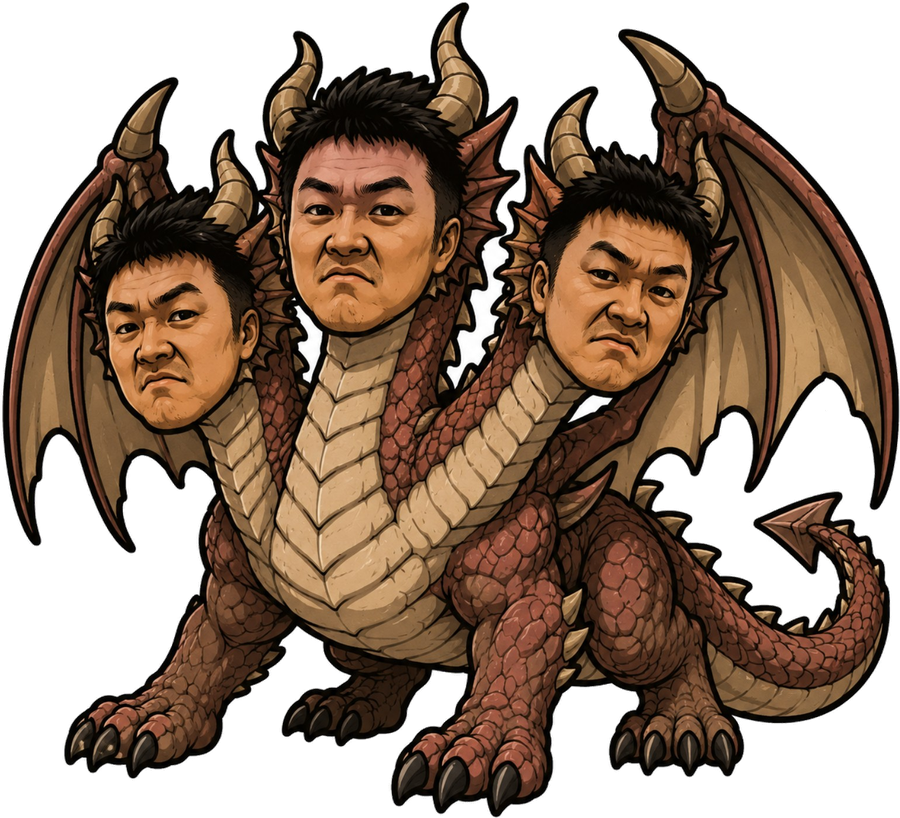
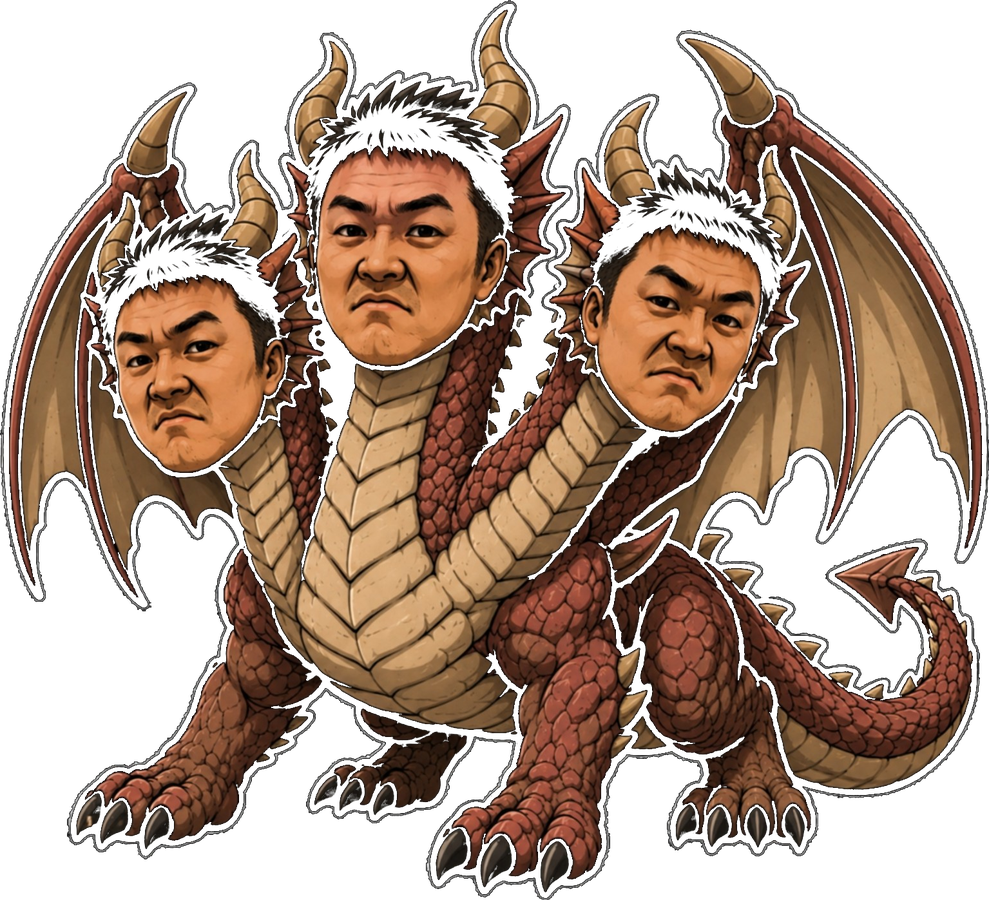
Add files via upload

diff --git a/battle.js b/battle.js
@@ -78,7 +78,7 @@ function updateLasers(dt){
  }
 }
 function updateUI(){
- const alive=heroes.filter(x=>!x.dead),h=heroes[heroIndex],dBtn=document.getElementById('d');if(trainingMode&&trainingChallenge==='mole'){const labels={a:'左',b:'上',c:'下',d:'右'};for(const id of ['a','b','c','d']){const el=document.getElementById(id);if(el)el.innerHTML=`<b>${id.toUpperCase()}</b>${labels[id]}`}}if(dBtn&&!(trainingMode&&trainingChallenge==='mole')){const soloReady=alive.length===1;dBtn.innerHTML=soloReady?'<b>D</b>専用技':'<b>D</b>交代';dBtn.classList.toggle('soloReady',soloReady);}ui.stageNo.textContent=trainingMode?(trainingChallenge==='mole'?'MOLE TRAINING':'TRAINING'):foxMode?'FOX BATTLE':bushinMode?'SPECIAL BOSS':'BOSS '+(bossIndex+1)+' / 5';ui.bossName.textContent=trainingMode?(trainingChallenge==='mole'?`モグラ叩き　${moleScore}点　残り ${Math.max(0,MOLE_DURATION-trainingElapsed).toFixed(1)}秒`:trainingChallenge==='limit'?`60秒撃破　${trainingKills}体　残り ${Math.max(0,60-trainingElapsed).toFixed(1)}秒`:`100体撃破　${trainingKills} / 100　${formatTrainingTime(trainingElapsed)}`):foxMode?'白狐忍・三影':bushinMode?'武神':bossDefs[bossIndex].name;ui.bossFill.style.width=trainingMode?(trainingChallenge==='mole'?Math.min(100,trainingElapsed/MOLE_DURATION*100):trainingChallenge==='limit'?Math.min(100,trainingElapsed/60*100):trainingKills)+'%':(boss.hp/boss.maxHp*100)+'%';ui.heroName.textContent=heroInfo[h.type].name;ui.ability.textContent=heroInfo[h.type].ability;ui.hpFill.style.width=(h.hp/h.maxHp*100)+'%';ui.hpText.textContent=Math.ceil(h.hp)+' / '+h.maxHp+' HP';
+ const alive=heroes.filter(x=>!x.dead),h=heroes[heroIndex],dBtn=document.getElementById('d');if(trainingMode&&trainingChallenge==='mole'){const labels={a:'左叩き',b:'上叩き',c:'下叩き',d:'右叩き'};for(const id of ['a','b','c','d']){const el=document.getElementById(id);if(el)el.innerHTML=`<b>${id.toUpperCase()}</b>${labels[id]}`}}if(dBtn&&!(trainingMode&&trainingChallenge==='mole')){const soloReady=alive.length===1;dBtn.innerHTML=soloReady?'<b>D</b>専用技':'<b>D</b>交代';dBtn.classList.toggle('soloReady',soloReady);}ui.stageNo.textContent=trainingMode?(trainingChallenge==='mole'?'MOLE TRAINING':'TRAINING'):foxMode?'FOX BATTLE':bushinMode?'SPECIAL BOSS':'BOSS '+(bossIndex+1)+' / 5';ui.bossName.textContent=trainingMode?(trainingChallenge==='mole'?`モグラ叩き　${moleScore}点　残り ${Math.max(0,MOLE_DURATION-trainingElapsed).toFixed(1)}秒`:trainingChallenge==='limit'?`60秒撃破　${trainingKills}体　残り ${Math.max(0,60-trainingElapsed).toFixed(1)}秒`:`100体撃破　${trainingKills} / 100　${formatTrainingTime(trainingElapsed)}`):foxMode?'白狐忍・三影':bushinMode?'武神':bossDefs[bossIndex].name;ui.bossFill.style.width=trainingMode?(trainingChallenge==='mole'?Math.min(100,trainingElapsed/MOLE_DURATION*100):trainingChallenge==='limit'?Math.min(100,trainingElapsed/60*100):trainingKills)+'%':(boss.hp/boss.maxHp*100)+'%';ui.heroName.textContent=heroInfo[h.type].name;ui.ability.textContent=heroInfo[h.type].ability;ui.hpFill.style.width=(h.hp/h.maxHp*100)+'%';ui.hpText.textContent=Math.ceil(h.hp)+' / '+h.maxHp+' HP';
  document.querySelectorAll('.partyRow').forEach(row=>{const type=row.dataset.hero,hero=heroes.find(x=>x.type===type);row.hidden=!hero;if(!hero)return;const pct=Math.max(0,hero.hp/hero.maxHp*100),fill=ui.party[type+'Fill'],text=ui.party[type+'Text'];if(fill)fill.style.width=pct+'%';if(text)text.textContent=Math.ceil(hero.hp)+'/'+hero.maxHp;row.classList.toggle('active',hero===h);row.classList.toggle('dead',hero.dead)})
 }
 function enforceQigongWalls(){for(const w of walls){if(w.type!=='qigong'||w.life<=0)continue;const repel=e=>{if(!e||e.dead||e.hp<=0)return;let dx=e.x-w.x,dy=e.y-w.y,d=Math.hypot(dx,dy),min=w.r+(e.r||20);if(d<min){if(d<.001){dx=1;dy=0;d=1}e.x=w.x+dx/d*min;e.y=w.y+dy/d*min;const out=norm(dx,dy);e.vx=Math.max(e.vx||0,out.x*70);e.vy=Math.max(e.vy||0,out.y*70);clampArena(e)}};repel(boss);for(const m of minions)repel(m)}}

diff --git a/index.html b/index.html
@@ -77,7 +77,7 @@
   <div id="mimicBuildRows" class="mimicBuildRows"></div>
   <div class="mimicSetupActions"><button id="mimicCancel" type="button">戻る</button><button id="mimicSaveStart" type="button">保存して開始</button></div>
  </div>
-</div><div id="imageLoadStatus" class="imageLoadStatus">画像準備中 0/20</div><div id="mainActions" class="mainActions"><button id="play" type="button">ボス部屋へ入る</button><button id="trainingMenuButton" type="button" disabled>修行場</button></div><div id="trainingPanel" class="trainingPanel" hidden><h2>修行場</h2><p class="small">参加キャラクターを1〜3人選んでから、修行種目を選択してください。選んだ人数がそのまま部門になります。</p><div class="trainingPartyBlock"><div class="trainingPartyHeader"><b>参加キャラクター</b><span id="trainingPartySummary">0人選択</span></div><div id="trainingPartyChoices" class="trainingPartyChoices"></div><div class="small trainingHint">1人選択＝1人部門、2人選択＝2人部門、3人選択＝3人部門</div></div><div class="trainingChallengeButtons"><button id="trainingPlay" class="trainingChallengeButton timeAttack" type="button" disabled><strong>100体撃破タイムアタック</strong><span>100体を倒すまでの最速タイムを競う</span></button><button id="trainingLimitPlay" class="trainingChallengeButton limitAttack" type="button" disabled><strong>60秒・制限時間撃破</strong><span>覚醒無双で60秒間の撃破数を競う</span></button><button id="trainingMolePlay" class="trainingChallengeButton moleAttack" type="button" disabled><strong>モグラ叩き</strong><span>近接4職限定・60秒で得点を競う</span></button></div><div id="trainingRank" class="trainingRank"></div><button id="trainingBack" type="button">戻る</button></div><div id="loadStatus" class="small">ゲームは画像を待たずに開始できます。</div><div class="small">Dボタンで操作キャラを切り替えられます。</div></div>
+</div><div id="imageLoadStatus" class="imageLoadStatus">画像準備中 0/20</div><div id="mainActions" class="mainActions"><button id="play" type="button">ボス部屋へ入る</button><button id="trainingMenuButton" type="button" disabled>修行場</button></div><div id="trainingPanel" class="trainingPanel" hidden><h2>修行場</h2><p class="small">参加キャラクターを1〜3人選んでから、修行種目を選択してください。選んだ人数がそのまま部門になります。</p><div class="trainingPartyBlock"><div class="trainingPartyHeader"><b>参加キャラクター</b><span id="trainingPartySummary">0人選択</span></div><div id="trainingPartyChoices" class="trainingPartyChoices"></div><div class="small trainingHint">1人選択＝1人部門、2人選択＝2人部門、3人選択＝3人部門</div></div><div class="trainingChallengeButtons"><button id="trainingPlay" class="trainingChallengeButton timeAttack" type="button" disabled><strong>100体撃破タイムアタック</strong><span>100体を倒すまでの最速タイムを競う</span></button><button id="trainingLimitPlay" class="trainingChallengeButton limitAttack" type="button" disabled><strong>60秒・制限時間撃破</strong><span>覚醒無双で60秒間の撃破数を競う</span></button><button id="trainingMolePlay" class="trainingChallengeButton moleAttack" type="button" disabled><strong>モグラ叩き</strong><span>方向キーで移動・ABCDで上下左右を叩く</span></button></div><div id="trainingRank" class="trainingRank"></div><button id="trainingBack" type="button">戻る</button></div><div id="loadStatus" class="small">ゲームは画像を待たずに開始できます。</div><div class="small">Dボタンで操作キャラを切り替えられます。</div></div>
 </div></div></div>
 
 <script src="core.js?v=74" defer></script>

diff --git a/render.js b/render.js
@@ -4,8 +4,8 @@ function drawMoleTraining(){
  for(let i=0;i<MOLE_HOLES.length;i++){const [x,y]=MOLE_HOLES[i];ctx.fillStyle='#090705';ctx.beginPath();ctx.ellipse(x,y+18,60,25,0,0,Math.PI*2);ctx.fill();ctx.strokeStyle='#6d5841';ctx.lineWidth=6;ctx.stroke();ctx.fillStyle='#0009';ctx.beginPath();ctx.ellipse(x,y+15,46,16,0,0,Math.PI*2);ctx.fill()}
  for(const m of moles){const [x,y]=MOLE_HOLES[m.hole];if(m.warn>0){const p=1-m.warn/.15;ctx.globalAlpha=.35+.45*p;ctx.fillStyle='#6f5134';ctx.beginPath();ctx.ellipse(x,y+8,38+8*p,13+4*p,0,0,Math.PI*2);ctx.fill();ctx.globalAlpha=1;continue}const rise=Math.min(1,(m.max-m.life)/.12,m.life/.12);const yy=y+18-rise*58;ctx.save();ctx.translate(x,yy);ctx.fillStyle=m.kind==='king'?'#8b5b23':m.kind==='gold'?'#d9a72f':'#704628';ctx.strokeStyle=m.kind==='king'?'#ffe278':m.kind==='gold'?'#fff0a1':'#b98758';ctx.lineWidth=4;ctx.beginPath();ctx.roundRect(-33,-42,66,72,25);ctx.fill();ctx.stroke();ctx.fillStyle='#18110c';ctx.beginPath();ctx.arc(-11,-17,4,0,Math.PI*2);ctx.arc(11,-17,4,0,Math.PI*2);ctx.fill();ctx.fillStyle='#e7b18b';ctx.beginPath();ctx.ellipse(0,-3,10,7,0,0,Math.PI*2);ctx.fill();if(m.kind==='king'){ctx.fillStyle='#ffe267';ctx.beginPath();ctx.moveTo(-25,-43);ctx.lineTo(-14,-65);ctx.lineTo(0,-48);ctx.lineTo(14,-65);ctx.lineTo(25,-43);ctx.closePath();ctx.fill()}ctx.restore()}
  if(heroes[0])heroes[0].draw(0);
- if(moleAttackFx>0){const a={left:Math.PI,up:-Math.PI/2,down:Math.PI/2,right:0}[moleAttackDir]||0;ctx.save();ctx.translate(500,525);ctx.rotate(a);ctx.globalAlpha=moleAttackFx/.13;ctx.strokeStyle='#fff4cf';ctx.shadowBlur=20;ctx.shadowColor='#ffd27b';ctx.lineWidth=24;ctx.lineCap='round';ctx.beginPath();ctx.moveTo(42,0);ctx.lineTo(190,0);ctx.stroke();ctx.strokeStyle='#ffffff';ctx.lineWidth=7;ctx.stroke();ctx.restore()}
- ctx.fillStyle='#ffffff';ctx.textAlign='center';ctx.font='bold 30px sans-serif';ctx.fillText(`SCORE ${moleScore}`,500,105);ctx.font='bold 22px sans-serif';ctx.fillText(`COMBO ${moleCombo}`,500,140);ctx.font='bold 18px sans-serif';ctx.fillStyle='#d8e8f4';ctx.fillText('A：左　B：上　C：下　D：右',500,920);ctx.restore()
+ if(moleAttackFx>0){const a={left:Math.PI,up:-Math.PI/2,down:Math.PI/2,right:0}[moleAttackDir]||0;ctx.save();const h=heroes[0];ctx.translate(h?h.x:500,h?h.y:525);ctx.rotate(a);ctx.globalAlpha=moleAttackFx/.13;ctx.strokeStyle='#fff4cf';ctx.shadowBlur=20;ctx.shadowColor='#ffd27b';ctx.lineWidth=24;ctx.lineCap='round';ctx.beginPath();ctx.moveTo(42,0);ctx.lineTo(190,0);ctx.stroke();ctx.strokeStyle='#ffffff';ctx.lineWidth=7;ctx.stroke();ctx.restore()}
+ ctx.fillStyle='#ffffff';ctx.textAlign='center';ctx.font='bold 30px sans-serif';ctx.fillText(`SCORE ${moleScore}`,500,105);ctx.font='bold 22px sans-serif';ctx.fillText(`COMBO ${moleCombo}`,500,140);ctx.font='bold 18px sans-serif';ctx.fillStyle='#d8e8f4';ctx.fillText('方向キー：移動　A：左　B：上　C：下　D：右',500,920);ctx.restore()
 }
 function drawDoor(x,dir){ctx.save();ctx.translate(x,525);ctx.fillStyle='#171b22';ctx.fillRect(dir<0?-55:0,-105,55,210);ctx.strokeStyle='#9d8a5c';ctx.lineWidth=9;ctx.strokeRect(dir<0?-55:0,-105,55,210);ctx.strokeStyle='#514833';ctx.lineWidth=6;for(let y=-72;y<=72;y+=36){ctx.beginPath();ctx.moveTo(dir<0?-49:6,y);ctx.lineTo(dir<0?-6:49,y);ctx.stroke()}ctx.fillStyle='#d7b85e';ctx.beginPath();ctx.arc(dir<0?-16:16,0,8,0,Math.PI*2);ctx.fill();
 ctx.strokeStyle='#888';ctx.lineWidth=8;ctx.beginPath();ctx.moveTo(dir<0?-52:3,-70);ctx.lineTo(dir<0?-3:52,70);ctx.moveTo(dir<0?-3:52,-70);ctx.lineTo(dir<0?-52:3,70);ctx.stroke();ctx.restore()}

diff --git a/bosses.js b/bosses.js
@@ -145,7 +145,7 @@ function setupMoleBattle(){
  boss=createTrainingProxy();boss.x=500;boss.y=525;
  shots.length=particles.length=walls.length=slashes.length=fistTrails.length=minions.length=lasers.length=holyFx.length=holyDots.length=runes.length=0;
  trainingKills=0;trainingElapsed=0;trainingFinished=false;moleFinished=false;moleScore=0;moleCombo=0;moleSpawnTimer=.45;moleAttackFx=0;moleAttackDir='';moles=[];timeStop=0;
- updateUI();notice('モグラ叩き――A左・B上・C下・D右！','#ffd88b',1800)
+ updateUI();notice('モグラ叩き――移動して A左・B上・C下・D右！','#ffd88b',1900)
 }
 function moleMaxActive(){return trainingElapsed<20?1:trainingElapsed<40?2:3}
 function moleVisibleTime(){return trainingElapsed<20?1.0:trainingElapsed<40?.78:trainingElapsed<50?.62:.48}
@@ -154,15 +154,17 @@ function spawnMole(){
  const hole=choices[Math.floor(Math.random()*choices.length)],r=Math.random(),kind=r<.05?'king':r<.2?'gold':'normal';
  moles.push({hole,kind,life:moleVisibleTime(),max:moleVisibleTime(),warn:.15,hit:false})
 }
-function moleDirectionForHole(i){const [x,y]=MOLE_HOLES[i],dx=x-500,dy=y-525;if(Math.abs(dx)>Math.abs(dy))return dx<0?'left':'right';return dy<0?'up':'down'}
 function hitMoles(dir){
+ const h=heroes[0];if(!h)return;
  moleAttackDir=dir;moleAttackFx=.13;let hit=0;
- for(let i=moles.length-1;i>=0;i--){const m=moles[i];if(m.warn>0||m.hit||moleDirectionForHole(m.hole)!==dir)continue;m.hit=true;const pts=m.kind==='king'?5:m.kind==='gold'?3:1;moleScore+=pts;moleCombo++;hit++;const [x,y]=MOLE_HOLES[m.hole];burst(x,y,m.kind==='king'?'#fff08a':m.kind==='gold'?'#ffd75c':'#d6b07a',12,180);particles.push({x,y:y-45,vx:0,vy:-65,r:8,c:'#ffffff',life:.45,max:.45,text:'+'+pts});moles.splice(i,1)}
+ const axis=dir==='left'?[-1,0]:dir==='right'?[1,0]:dir==='up'?[0,-1]:[0,1];
+ for(let i=moles.length-1;i>=0;i--){const m=moles[i];if(m.warn>0||m.hit)continue;const [x,y]=MOLE_HOLES[m.hole],dx=x-h.x,dy=y-h.y,dist=Math.hypot(dx,dy);if(dist>205||dist<18)continue;const forward=(dx*axis[0]+dy*axis[1])/dist,side=Math.abs(dx*axis[1]-dy*axis[0]);if(forward<.48||side>112)continue;m.hit=true;const pts=m.kind==='king'?5:m.kind==='gold'?3:1;moleScore+=pts;moleCombo++;hit++;burst(x,y,m.kind==='king'?'#fff08a':m.kind==='gold'?'#ffd75c':'#d6b07a',12,180);particles.push({x,y:y-45,vx:0,vy:-65,r:8,c:'#ffffff',life:.45,max:.45,text:'+'+pts});moles.splice(i,1)}
  if(!hit)moleCombo=0
 }
 function updateMoleGame(dt){
  trainingElapsed+=dt;moleSpawnTimer-=dt;moleAttackFx=Math.max(0,moleAttackFx-dt);
  if(trainingElapsed>=MOLE_DURATION){trainingElapsed=MOLE_DURATION;finishMoleTraining();return}
+ const h=heroes[0];if(h){let mx=(keys.has('KeyD')||keys.has('ArrowRight')?1:0)-(keys.has('KeyA')||keys.has('ArrowLeft')?1:0)+joy.x,my=(keys.has('KeyS')||keys.has('ArrowDown')?1:0)-(keys.has('KeyW')||keys.has('ArrowUp')?1:0)+joy.y;if(Math.hypot(mx,my)>.08){const n=norm(mx,my),speed=285;h.x+=n.x*speed*dt;h.y+=n.y*speed*dt;h.facing=n}h.x=clamp(h.x,105,895);h.y=clamp(h.y,175,850)}
  if(pressed.has('KeyJ')){pressed.delete('KeyJ');hitMoles('left')}
  if(pressed.has('KeyK')){pressed.delete('KeyK');hitMoles('up')}
  if(pressed.has('KeyL')){pressed.delete('KeyL');hitMoles('down')}

diff --git a/ui.js b/ui.js
@@ -32,7 +32,7 @@ function buildTrainingPartyChoices(){
  refreshTrainingPartyUi();
 }
 function moleRankHtml(){const book=readMoleScoreBook();return `<b>モグラ叩き キャラ別 TOP 3</b>`+MOLE_ALLOWED.map(type=>{const ranks=book[type]||[];return `<div class="rankSection"><div class="rankTitle">${heroInfo[type]?.name||type}</div>${ranks.length?ranks.map((r,i)=>`<div class="rankRow"><span>${i+1}位</span><span></span><strong>${r.score}点</strong></div>`).join(''):'<div>記録はまだありません。</div>'}</div>`}).join('')}
-function refreshTrainingMenu(){const unlocked=isTrainingUnlocked();trainingMenuButton.disabled=!unlocked;trainingMenuButton.textContent=unlocked?'修行場':'修行場（通常クリアで解放）';trainingPlay.innerHTML='<strong>100体撃破タイムアタック</strong><span>100体を倒すまでの最速タイムを競う</span>';trainingLimitPlay.innerHTML='<strong>60秒・制限時間撃破</strong><span>覚醒無双で60秒間の撃破数を競う</span>';trainingMolePlay.innerHTML=`<strong>モグラ叩き${isMoleUnlocked()?'':'（100体撃破クリアで解放）'}</strong><span>ナイト・魔剣士・竜騎士・武神の1人専用</span>`;trainingRank.innerHTML=trainingRankHtml('100体撃破',readTrainingRankBook())+trainingRankHtml('60秒撃破',readTrainingScoreBook(),true)+moleRankHtml();buildTrainingPartyChoices()}
+function refreshTrainingMenu(){const unlocked=isTrainingUnlocked();trainingMenuButton.disabled=!unlocked;trainingMenuButton.textContent=unlocked?'修行場':'修行場（通常クリアで解放）';trainingPlay.innerHTML='<strong>100体撃破タイムアタック</strong><span>100体を倒すまでの最速タイムを競う</span>';trainingLimitPlay.innerHTML='<strong>60秒・制限時間撃破</strong><span>覚醒無双で60秒間の撃破数を競う</span>';trainingMolePlay.innerHTML=`<strong>モグラ叩き${isMoleUnlocked()?'':'（100体撃破クリアで解放）'}</strong><span>移動して上下左右を叩く・近接4職の1人専用</span>`;trainingRank.innerHTML=trainingRankHtml('100体撃破',readTrainingRankBook())+trainingRankHtml('60秒撃破',readTrainingScoreBook(),true)+moleRankHtml();buildTrainingPartyChoices()}
 refreshTrainingMenu();
 
 function openTrainingPanel(){if(!isTrainingUnlocked())return;if(!trainingSelectedTypes.length){trainingSelectedTypes=partyChoices.filter(b=>b.classList.contains('selected')&&!b.disabled).slice(0,3).map(b=>b.dataset.hero);if(!trainingSelectedTypes.length)trainingSelectedTypes=['knight']}buildTrainingPartyChoices();mainActions.hidden=true;trainingPanel.hidden=false;document.getElementById('loadStatus').textContent='修行場：参加キャラクターを1〜3人選び、種目を選択してください。'}

diff --git a/core.js b/core.js
@@ -4,7 +4,7 @@ const keys=new Set(),pressed=new Set(),released=new Set();let running=false,last
 let trainingKills=0,trainingElapsed=0,trainingSpawnTimer=0,trainingFinished=false,trainingPartySize=1,trainingChallenge='time';
 let moleScore=0,moleCombo=0,moleSpawnTimer=0,moleAttackFx=0,moleAttackDir='',moleFinished=false,moles=[];
 const MOLE_DURATION=60,MOLE_ALLOWED=['knight','magicblade','dragonknight','bushin'];
-const MOLE_HOLES=[[500,250],[690,315],[770,510],[690,705],[500,770],[310,705],[230,510],[310,315]];
+const MOLE_HOLES=[[210,245],[500,210],[790,245],[825,500],[790,755],[500,800],[210,755],[175,500]];
 const TRAINING_SPAWN_POINTS=[[145,190],[855,190],[145,825],[855,825]],trainingSpawnFlash=[0,0,0,0];
 let mimicBattleBuild=null;
 const AWAKEN_UNLOCK_KEY='jabrAwakeningUnlockedV1',MONK_UNLOCK_KEY='jabrMonkUnlockedV1',HIGHPRIEST_UNLOCK_KEY='jabrHighPriestUnlockedV2',MAGICBLADE_UNLOCK_KEY='jabrMagicbladeUnlockedV1',RUNEMAGE_UNLOCK_KEY='jabrRunemageUnlockedV1',QIGONG_UNLOCK_KEY='jabrQigongUnlockedV1',NINJA_UNLOCK_KEY='jabrNinjaUnlockedV1',DRAGONKNIGHT_UNLOCK_KEY='jabrDragonKnightUnlockedV1',DRACULA_UNLOCK_KEY='jabrPlayableDraculaUnlockedV1',MIMIC_UNLOCK_KEY='jabrMimicUnlockedV1',BUSHIN_UNLOCK_KEY='jabrBushinChallengeUnlockedV1',PLAYABLE_BUSHIN_UNLOCK_KEY='jabrPlayableBushinUnlockedV1',FOX_MODE_UNLOCK_KEY='jabrFoxBattleUnlockedV1',FOX_UNLOCK_KEY='jabrPlayableFoxUnlockedV1',TRAINING_UNLOCK_KEY='jabrTrainingUnlockedV1',TRAINING_RANK_KEY='jabrTraining100Top3V3',TRAINING_LEGACY_RANK_KEY='jabrTraining100Top5V2',TRAINING_SCORE_KEY='jabrTraining60Top3V1',MOLE_SCORE_KEY='jabrMoleTop3V1',ARCHMAGE_UNLOCK_KEY='jabrArchmageUnlockedV1',HARD3_CLEAR_KEY='jabrHard3ClearedV1',HARD2_CLEAR_KEY='jabrHard2ClearedV1',HARD1_CLEAR_KEY='jabrHard1ClearedV1',ONI3_CLEAR_KEY='jabrOniHard3ClearedV1';

diff --git a/README.md b/README.md
@@ -37,3 +37,9 @@ v75 changes:
 - 3人ハード: 敵HP x1.70 / 攻撃力 x1.50
 - 3人鬼ハード: 敵HP x2.30 / 攻撃力 x1.90
 - AI・攻撃間隔は通常モードと共通
+
+## v79
+- モグラ叩きを方向キー移動方式へ変更。
+- A/B/C/Dは現在位置から左/上/下/右の近距離を叩く。
+- モグラ穴を画面全体へ再配置。
+- ステージ4ドラゴン画像を新画像へ差し替え。
